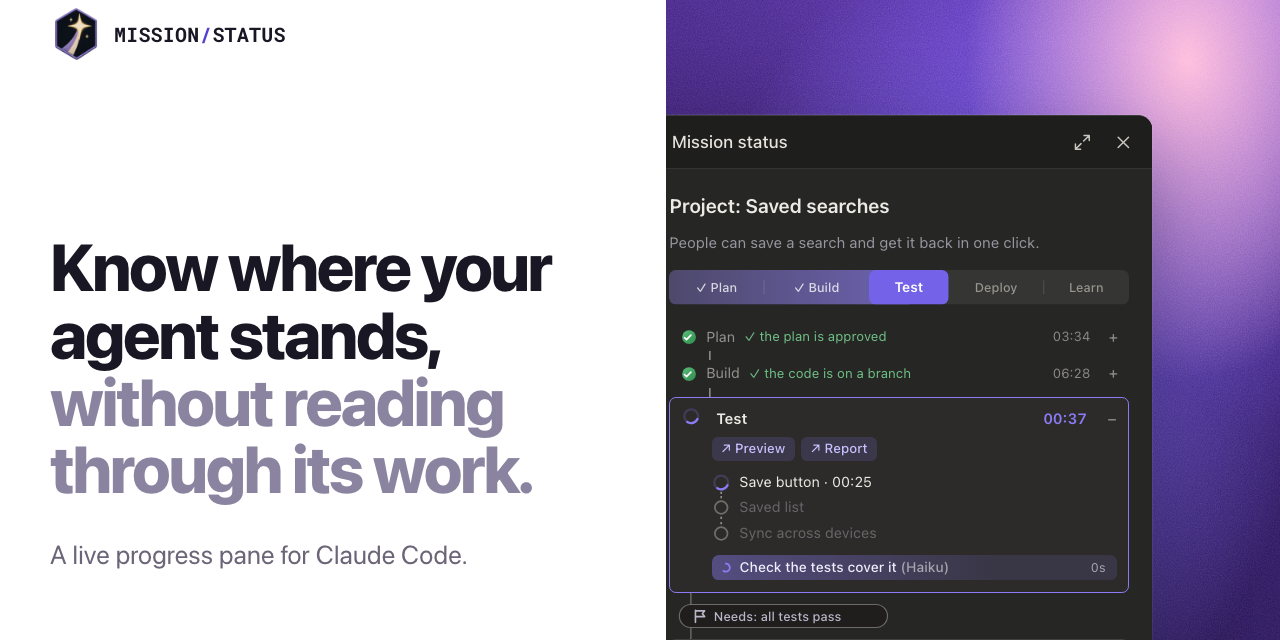
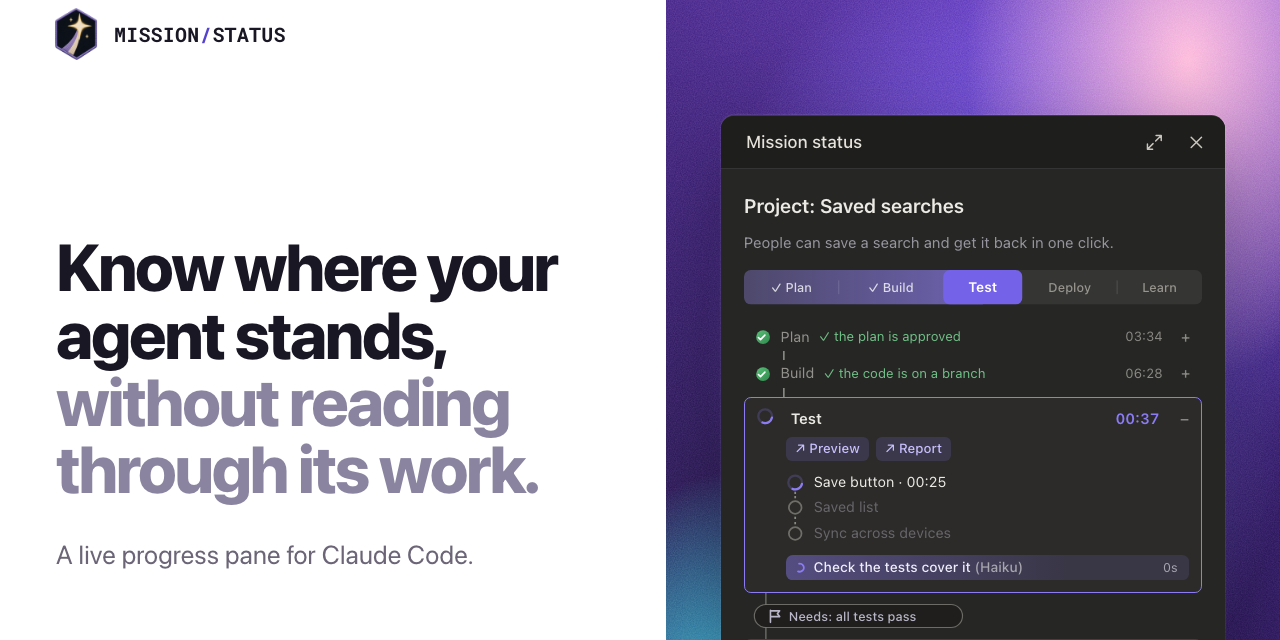
Share cards show the whole pane with a wider margin; a 101-character share description fits mobile previews

diff --git a/site/index.html b/site/index.html
@@ -10,7 +10,7 @@
 <meta property="og:type" content="website">
 <meta property="og:site_name" content="mission-status">
 <meta property="og:title" content="mission-status: a live progress pane for Claude Code">
-<meta property="og:description" content="Know where your agent stands, without reading through its work. A live progress pane for Claude Code in the Claude desktop app.">
+<meta property="og:description" content="A live progress pane for Claude Code: know where your agent stands, without reading through its work.">
 <meta property="og:url" content="https://oficiallyakshay.github.io/mission-status/">
 <meta property="og:locale" content="en_US">
 <meta property="og:image" content="https://oficiallyakshay.github.io/mission-status/og.png">
@@ -21,7 +21,7 @@
 <meta property="og:image:alt" content="The mission-status pane beside the headline: a feature mission on its Test stage, with each stage gate and the work running now.">
 <meta name="twitter:card" content="summary_large_image">
 <meta name="twitter:title" content="mission-status: a live progress pane for Claude Code">
-<meta name="twitter:description" content="Know where your agent stands, without reading through its work. A live progress pane for Claude Code in the Claude desktop app.">
+<meta name="twitter:description" content="A live progress pane for Claude Code: know where your agent stands, without reading through its work.">
 <meta name="twitter:image" content="https://oficiallyakshay.github.io/mission-status/og.png">
 <meta name="twitter:image:alt" content="The mission-status pane beside the headline: a feature mission on its Test stage, with each stage gate and the work running now.">
 <meta name="twitter:url" content="https://oficiallyakshay.github.io/mission-status/">
